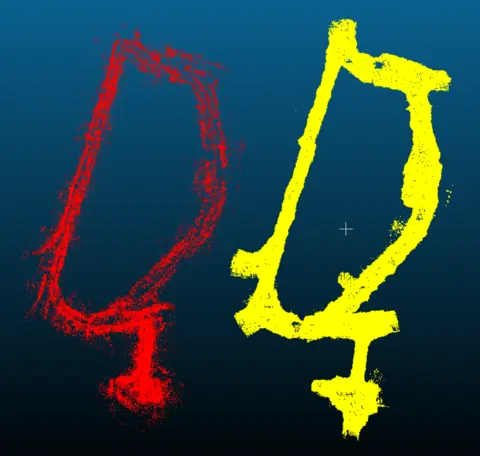
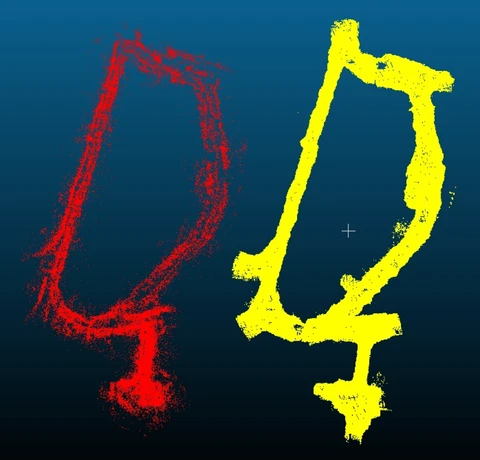
Deploying to gh-pages from @ ajaymopidevi/ajay@8dc91571ae24e02c01411718528d7ea1ecc2afcb 🚀

diff --git a/projects/index.html b/projects/index.html
@@ -140,7 +140,7 @@
     
 
     <!-- Fallback to the original file -->
-    <img src="/assets/img/Rmap.png" width="auto" height="auto" alt="project thumbnail" onerror="this.onerror=null; $('.responsive-img-srcset').remove();">
+    <img src="/assets/img/Rmap.jpg" width="auto" height="auto" alt="project thumbnail" onerror="this.onerror=null; $('.responsive-img-srcset').remove();">
 
   </picture>
 
